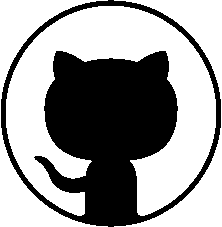
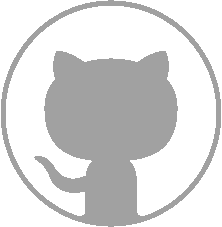
Added Footer and tidied up files
Added footer
Made background color the same as the footer
Deleted photos that aren't being used
Changed Titles so that they look prettier

diff --git a/index.html b/index.html
@@ -3,7 +3,6 @@
 <html>
 
     <head>
-        <!--No idea what this is. Maybe add it if something breaks?-->
         <meta charset="UTF-8">
         <meta name="viewport" content="width=device-width, initial-scale=1">
 
@@ -11,7 +10,7 @@
         <meta name="description" content="This is a website / blog by Ben Zobrist. But not the one who plays baseball, this one plays Ultimate Frisbee, loves programming, and an ego big enough to put it on the internet!" />
         <meta name="keywords" content="ben zobrist, ultimate frisbee, maeser prep, zobiejrz, zobrist, zobie" />
 
-        <title>Ben Zobrist | A Website</title>
+        <title>Ben Zobrist | Home</title>
         <link rel="stylesheet" type="text/css" href="./style.css">
     </head>
     <body>
@@ -19,48 +18,47 @@
 
             <div id="top-header">
             
-                <h1>A Website by Ben Zobrist</h1>
+                <h1>Website by Ben Zobrist</h1>
 
-            </div><!--end of top-header div-->
+            </div>
 
             <div id="btm-header">
 
                 <ul>
-
                     <a><li>Home</li></a>
                     <a href="./testing.html"><li>Testing</li></a>
-
                 </ul>
 
-            </div><!--end of sticky-header div-->
+            </div>
 
-        </div><!--end of header div-->
+        </div>
 
         <div id="container">
             <div id="content">
 
                 <img src="./img/mainPhoto.jpg" title="The smile you get when wearing sweats underneath your suit!" alt="a good photo of Ben Zobrist" width="50%" height="width">
-                <p>Welcome to my first website! It's still under construction, so a lot of the links might not work. Sorry.</p>
-                <p>Eventually this website will be all about me (#ego), so check back often to see what I add!</p>
-                <p> If you'd like, feel free to check out my <a href="http://instagram.com/zobiejrz" target="_blank">Instagram</a>, 
-                    <a href="http://twitter.com/zobiejrz" target="_blank">Twitter</a>, 
-                    or <a href="http://github.com/zobiejrz" target="_blank">GitHub</a>! Have a nice day!</p>          
+                          
+                <p>My name is Ben Zobrist, I don't play baseball, I love playing with computers, and this is my website!</p>
+                <p>I made this to show off, so pick one of those cool buttons up top to see what's what!</p>
+            </div>
 
-            </div><!--end of content div-->
-
-            <div id="side-bar">
-
-
-            </div><!--end of side-bar div-->
-
-        </div><!--end of container div-->
+        </div>
 
         <div id="footer">
+            <div id="left-footer">
+                <br>
+                <p>Made By Ben Zobrist</p>
+            </div>
+            <div id="right-footer">
+                <ul>
+        
+                    <a href="http://www.instagram.com/zobiejrz" target="_blank"><li><img src="./img/instagram.png" alt="Click here for Instagram" height="20pt" width="20pt"></li></a>
+                    <a href="http://www.twitter.com/zobiejrz" target="_blank"><li><img src="./img/twitter.png" alt="Click here for Twitter" height="20pt" width="20pt"></li></a>
+                    <a href="http://www.github.com/zobiejrz" target="_blank"><li><img src="./img/github.png" alt="Click here for Github" height="20pt" width="20pt"></li></a>
+                </ul>
+            </div>
 
-
-
-
-        </div><!--end of footer div-->
+        </div>
 
         <!--links for external script-->
   

diff --git a/testing.html b/testing.html
@@ -11,7 +11,7 @@
         <meta name="description" content="This is a website / blog by Ben Zobrist. But not the one who plays baseball, this one plays Ultimate Frisbee, loves programming, and an ego big enough to put it on the internet!" />
         <meta name="keywords" content="ben zobrist, ultimate frisbee, maeser prep, zobiejrz, zobrist, zobie" />
 
-        <title>Ben Zobrist | Test Page</title>
+        <title>Ben Zobrist | Testing</title>
         <link rel="stylesheet" type="text/css" href="./style.css">
     </head>
     <body>
@@ -39,9 +39,9 @@
         <div id="container">
             <div id="content">
 
-                <img src="./img/mainPhoto.jpg" title="The smile you get when wearing sweats underneath your suit!" alt="a good photo of Ben Zobrist" width="50%" height="width">
+                <img src="./img/TestingMainPhoto.jpg" title="I love Frisbee a lot. How much? That much." alt="a sort of dorky photo of Ben Zobrist" width="50%" height="width">
                 <p>This page is so I can test features! You might see some cool stuff here, but it will disappear once I finish making my website.</p>
-                <p>Most recently I made the navigation bar follow you while you scroll! Check it out by scrolling through the content below!</p>
+                <p>Cool things I've done include a nifty navigation bar that follows you while you scroll (the blue one), but also a spiffy footer at the bottom of the page! Test both out by scrolling to the footer now!</p>
                 <p class="left">
                         Lorem ipsum dolor sit amet, consectetur adipiscing elit. Vivamus et nisi a enim porttitor vulputate in id est. Sed nec bibendum tellus. Aenean pulvinar eros risus, eu pharetra diam vehicula non. Nulla tempus commodo enim non ornare. Vivamus tempus nulla ac ligula dapibus, at tempor dui ultrices. Morbi feugiat risus hendrerit quam scelerisque, vel suscipit ligula mattis. Interdum et malesuada fames ac ante ipsum primis in faucibus. Donec sollicitudin, libero vitae auctor vulputate, nisi lectus ornare ligula, sed tempor arcu arcu vitae est. Morbi elementum justo eu nunc tempor viverra. Nulla ornare commodo elit, id malesuada turpis viverra nec. Phasellus nulla felis, pretium vitae semper ac, consectetur eget nisl.
                         <br>
@@ -76,16 +76,25 @@
 
             </div><!--end of content div-->
 
-            <div id="side-bar">
-
-
-            </div><!--end of side-bar div-->
-
         </div><!--end of container div-->
 
         <div id="footer">
 
-
+                <div id="left-footer">
+                        <br>
+                        <p>Made By Ben Zobrist</p>
+        
+                    </div>
+                    <div id="right-footer">
+                        <br>
+                        <ul>
+        
+                                <a href="http://www.instagram.com/zobiejrz" target="_blank"><li><img src="./img/instagram.png" alt="Click here for Instagram" height="20pt" width="20pt"></li></a>
+                                <a href="http://www.twitter.com/zobiejrz" target="_blank"><li><img src="./img/twitter.png" alt="Click here for Twitter" height="20pt" width="20pt"></li></a>
+                                <a href="http://www.github.com/zobiejrz" target="_blank"><li><img src="./img/github.png" alt="Click here for Github" height="20pt" width="20pt"></li></a>
+                        </ul>
+        
+                    </div>
 
 
         </div><!--end of footer div-->

diff --git a/style.css b/style.css
@@ -1,6 +1,6 @@
 body
 {
-
+    background-color: rgb(50, 50, 54);
     margin: 0%;
     font-family: "Helvetica Neue", Helvetica, Arial, sans-serif;
 }
@@ -94,9 +94,16 @@ body
     
 }
 
+#container
+{
+    position: relative;
+    width: 100%;
+    background-color: white;
+}
+
 #content
 {
-
+    background-color: transparent;
     position: relative;
     padding: 10px;
 
@@ -138,5 +145,76 @@ body
 
     color: rgb(44, 155, 1);
     text-decoration: underline;
+}
 
+#footer
+{
+    color: rgb(161, 161, 161);
+    background-color: rgb(50, 50, 54);
+    height: 100pt;
+    width: 100%;
+
+    align-content: center;
+    justify-content: baseline;
+
+}
+
+#left-footer
+{
+
+    float: left;
+    margin-left: 5pt;
+    top: 10pt;
+    font-size: 9pt;
+}
+
+#right-footer
+{
+    float: right;
+    margin-right: 5pt;
+    top: 10pt;
+}
+#right-footer ul
+{
+
+    display: flex;
+    top: 10pt;
+    align-content: center;
+    justify-content: center;
+
+}
+
+#right-footer li
+{
+    justify-content: center;
+    align-content: center;
+    display: inline-block;
+    list-style-type: none;
+    vertical-align: middle;
+    width: 20pt;
+    height: 20pt;
+
+    padding-left: 2pt;
+}
+
+#right-footer a:link
+{
+    background-color: transparent;
+}
+
+#right-footer a:hover
+{
+    background-color: rgb(69, 69, 69);
+    border-radius: 9pt;
+}
+
+#right-footer a:visited
+{
+    background-color: transparent;
+}
+
+#right-footer a:active
+{
+    background-color: rgb(69, 69, 69);
+    border-radius: 9pt;
 }
